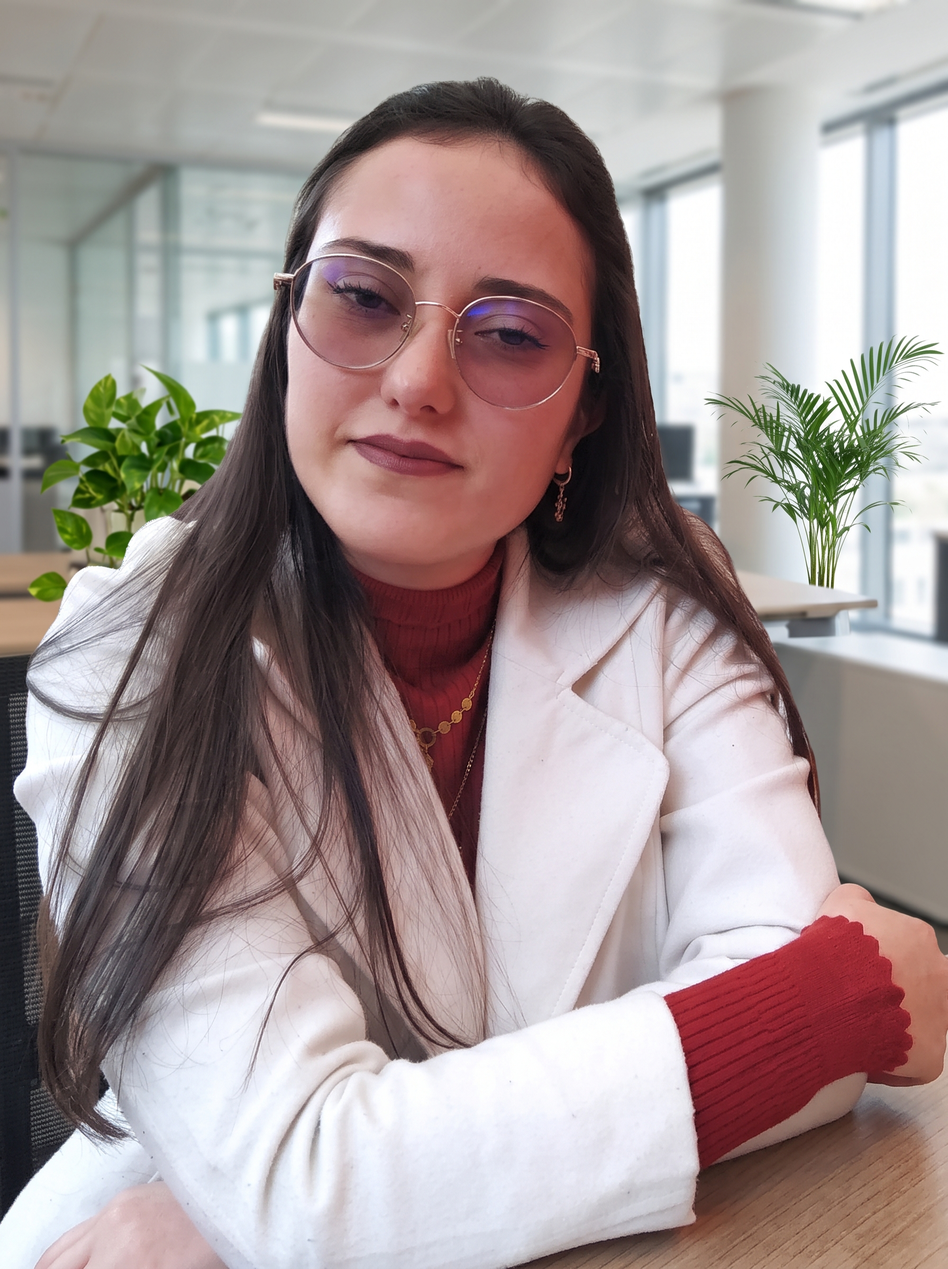
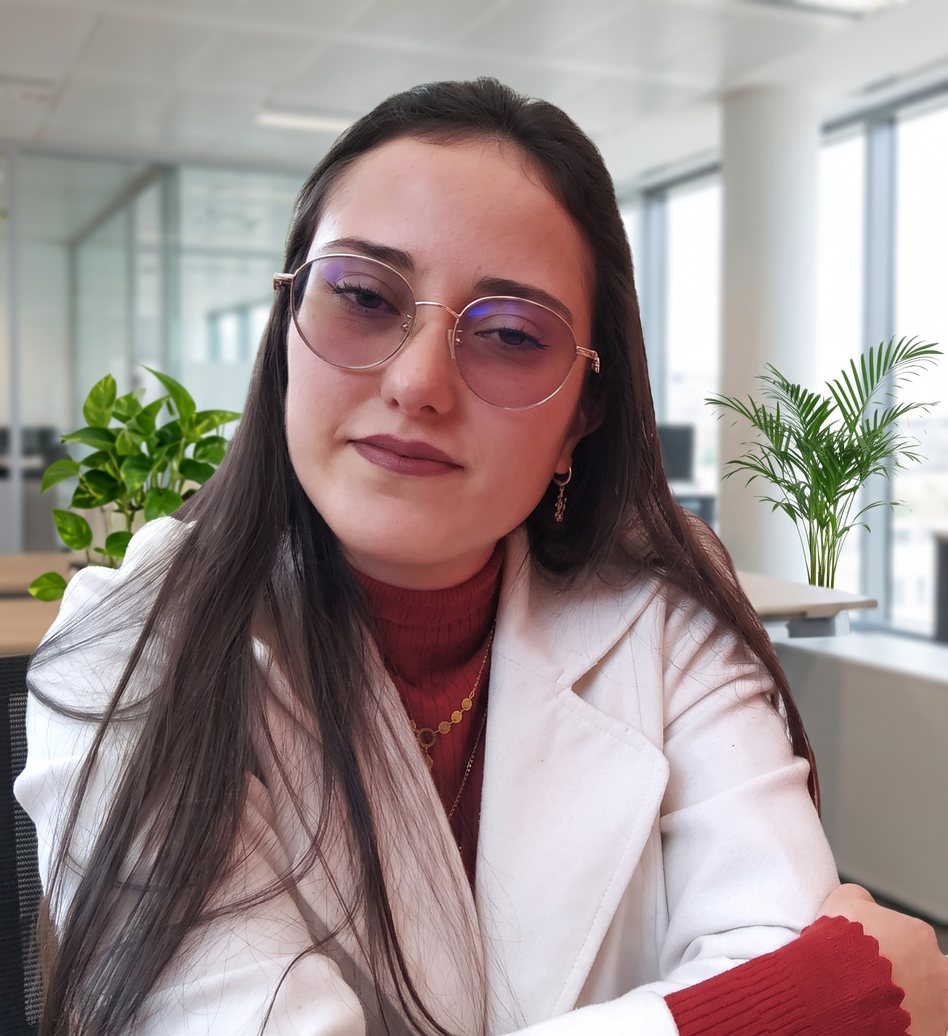
Entrega tarea 4

diff --git a/frontend/pages/quienes-somos.html b/frontend/pages/quienes-somos.html
@@ -46,7 +46,7 @@
             </div>
 
             <div class="perfil-imagen">
-                <img src="../assets/images/products/perfil-tmv.jpg" alt="Camión de distribución de alimentos TMV">
+                <img src="../assets/images/products/perfil-tmv.jpg" alt="Camión de distribución de productos TMV">
             </div>
         </section>
         
@@ -93,35 +93,35 @@
             <div class="equipo-grid">
 
                 <article class="equipo-card">
-                    <img src="../assets/team/integrante1.jpg" alt="Foto de Nombre Apellido">
+                    <img src="../assets/team/integrante1.jpg" alt="Foto de Julian">
                     <h3>Julian Steven Lozano</h3>
                     <span class="equipo-rol">QA/Backend Developer</span>
                     <p>Forma parte de nuestro equipo como QA Developer y Java Backend Developer, contribuyendo al desarrollo del proyecto con su atención al detalle, sus habilidades para resolver problemas y su interés por crear soluciones de software eficientes y confiables.</p>
                 </article>
 
                 <article class="equipo-card">
-                    <img src="../assets/team/integrante2.jpg" alt="Foto de Nombre Apellido">
+                    <img src="../assets/team/integrante2.jpg" alt="Foto de Angela">
                     <h3>Angela María Lara</h3>
-                    <span class="equipo-rol">Scrum Manager</span>
-                    <p>Se desempeña en nuestro equipo como Frontend Developer y Scrum Manager, aportando su experiencia de manera activa en el desarrollo del proyecto Tu Mayorista Virtual.</p>
+                    <span class="equipo-rol">Frontend & Scrum Manager</span>
+                    <p>Se desempeña en nuestro equipo como Frontend Developer y Scrum Manager, aportando su experiencia de manera activa en el desarrollo del proyecto Tu Mayorista Virtual con su liderazgo ágil, enfoque en la experiencia de usuario y diseño de interfaces intuitivas.</p>
                 </article>
 
                 <article class="equipo-card">
-                    <img src="../assets/team/integrante3.jpg" alt="Foto de Nombre Apellido">
+                    <img src="../assets/team/integrante3.jpg" alt="Foto de Juan">
                     <h3>Juan Diaz</h3>
                     <span class="equipo-rol">Fullstack Developer</span>
-                    <p>Juan David hace parte de nuestro equipo de programación, es uno de nuestros Developers FullStack, participa de manera integral en todo éste proyecto integrador.</p>
+                    <p>Forma parte de nuestro equipo como FullStack Developer, participando de manera integral en el desarrollo del proyecto a través de su capacidad para conectar el diseño de interfaz con arquitecturas lógicas del lado del servidor de forma sólida.</p>
                 </article>
 
                 <article class="equipo-card">
-                    <img src="../assets/team/integrante4.jpg" alt="Foto de Nombre Apellido">
+                    <img src="../assets/team/integrante4.jpg" alt="Foto de Fernanda">
                     <h3>Luisa Fernanda Sepulveda</h3>
                     <span class="equipo-rol">Web developer</span>
-                    <p>Hace parte de nuestro equipo de programación como Developer, participando activamente en el desarrollo de este proyecto integrador.</p>
+                    <p>Hace parte de nuestro equipo de programación como Developer, participando activamente en el desarrollo del proyecto TMV mediante el diseño de interfaces y componentes interactivos.</p>
                 </article>
 
                 <article class="equipo-card">
-                    <img src="../assets/team/integrante5.jpg" alt="Foto de Nombre Apellido">
+                    <img src="../assets/team/integrante5.jpg" alt="Foto de Juan Pablo">
                     <h3>Juan Pablo Calderon</h3>
                     <span class="equipo-rol">Release Manager</span>
                     <p>Es el responsable de planificar, coordinar y supervisar el despliegue de actualizaciones y nuevas versiones del proyecto apoyando tambien en el desarrollo de backend y frontend.</p>
